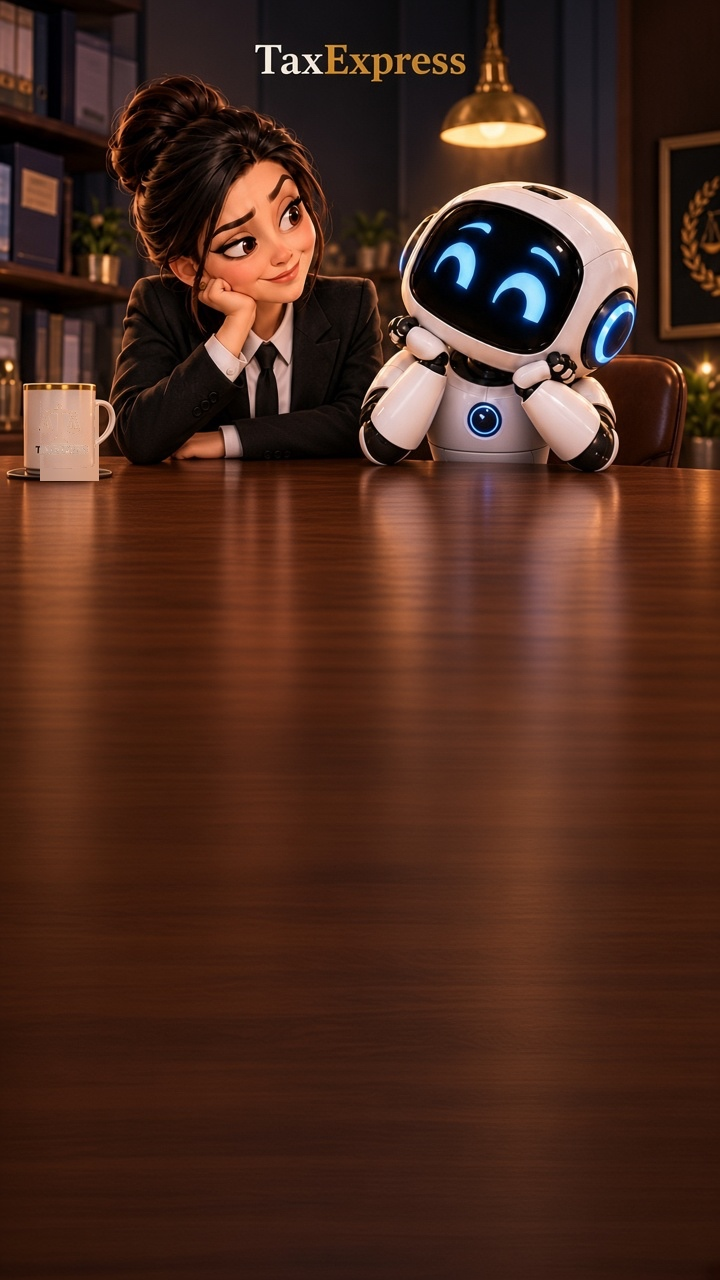
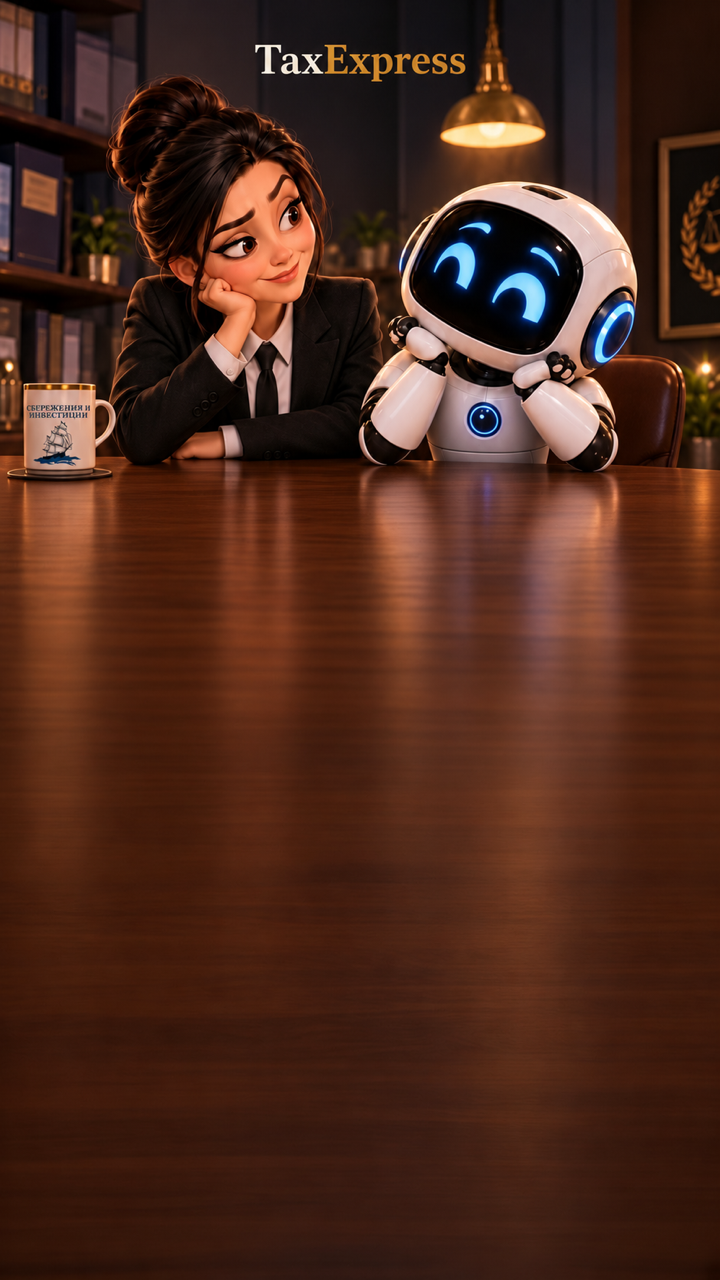
Update protocol mug art, AI-Zhan QR, and WATCH copy.
Swap in the hand-made mug scene and new AI-Zhan QR, drop the runtime mug overlay, and align WATCH speech with the September declaration line plus «Есть контакт».

diff --git a/src/logic/tree.ts b/src/logic/tree.ts
@@ -232,9 +232,7 @@ export const FINALE_SHELL: Record<Finale, FinaleShell> = {
   },
   WATCH: {
     speech: [
-      "Сигнал есть: нужно проверить декларацию за 2025 год.",
-      "Проверьте, всё ли подано вовремя. Если что-то пропустили — разберёмся с дальнейшими действиями.",
-      "Я бы на вашем месте начала с проверки документов.",
+      "Если так, то до 15 сентября вам нужно было подать декларацию!\n\nПодавали?\n\nНасколько вы добросовестный налогоплательщик? 😏",
     ],
     wakeTitle: "Подай декларацию — и спи спокойно",
     wakeSub: "ФНО 270 на радаре. Не доводите до кошмара наяву.",
@@ -338,7 +336,7 @@ export const PROTOCOL: Record<Finale, ProtocolCard> = {
 export const MICRO = {
   resident_check: "Хм. Тогда уточним статус до конца.",
   mandatory: "Так. Это меняет дело.",
-  foreign: "Сигнал есть.",
+  foreign: "Есть контакт.",
   empty: "Пока пусто. Идём дальше.",
   spouse: "Супруг(а) в деле. Продолжаем.",
 } as const;

diff --git a/src/scenes/ProtocolScene.ts b/src/scenes/ProtocolScene.ts
@@ -133,18 +133,6 @@ export class ProtocolScene extends Phaser.Scene {
       const baseScale = Math.max(W / img.width, H / img.height);
       stage.add(img);
 
-      // Compact wheel printed on the mug face — keep spokes inside the ceramic.
-      const mugX = 72 - img.width / 2;
-      const mugY = 428 - img.height / 2;
-      if (this.textures.exists("mug_wheel")) {
-        const wheel = this.add
-          .image(mugX, mugY, "mug_wheel")
-          .setDisplaySize(22, 22)
-          .setAlpha(0.68)
-          .setBlendMode(Phaser.BlendModes.MULTIPLY);
-        stage.add(wheel);
-      }
-
       stage.setScale(baseScale * 1.04);
       this.tweens.add({
         targets: stage,

diff --git a/src/scenes/BootScene.ts b/src/scenes/BootScene.ts
@@ -30,9 +30,8 @@ export class BootScene extends Phaser.Scene {
     this.load.image("bg_office_clear", "art/office-clear.png");
     this.load.image("bg_title", "art/title-portrait.png");
     this.load.image("bg_wake", "art/finale-sunny.png");
-    this.load.image("protocol_header", "art/protocol-screen.jpg");
-    this.load.image("mug_wheel", "art/mug-wheel.png?v=pad1");
-    this.load.image("qr_aizhan", "art/qr-aizhan.jpg");
+    this.load.image("protocol_header", "art/protocol-screen.jpg?v=user-mug1");
+    this.load.image("qr_aizhan", "art/qr-aizhan.jpg?v=new1");
     this.load.image("qr_telegram", "art/qr-telegram.png");
   }
 
